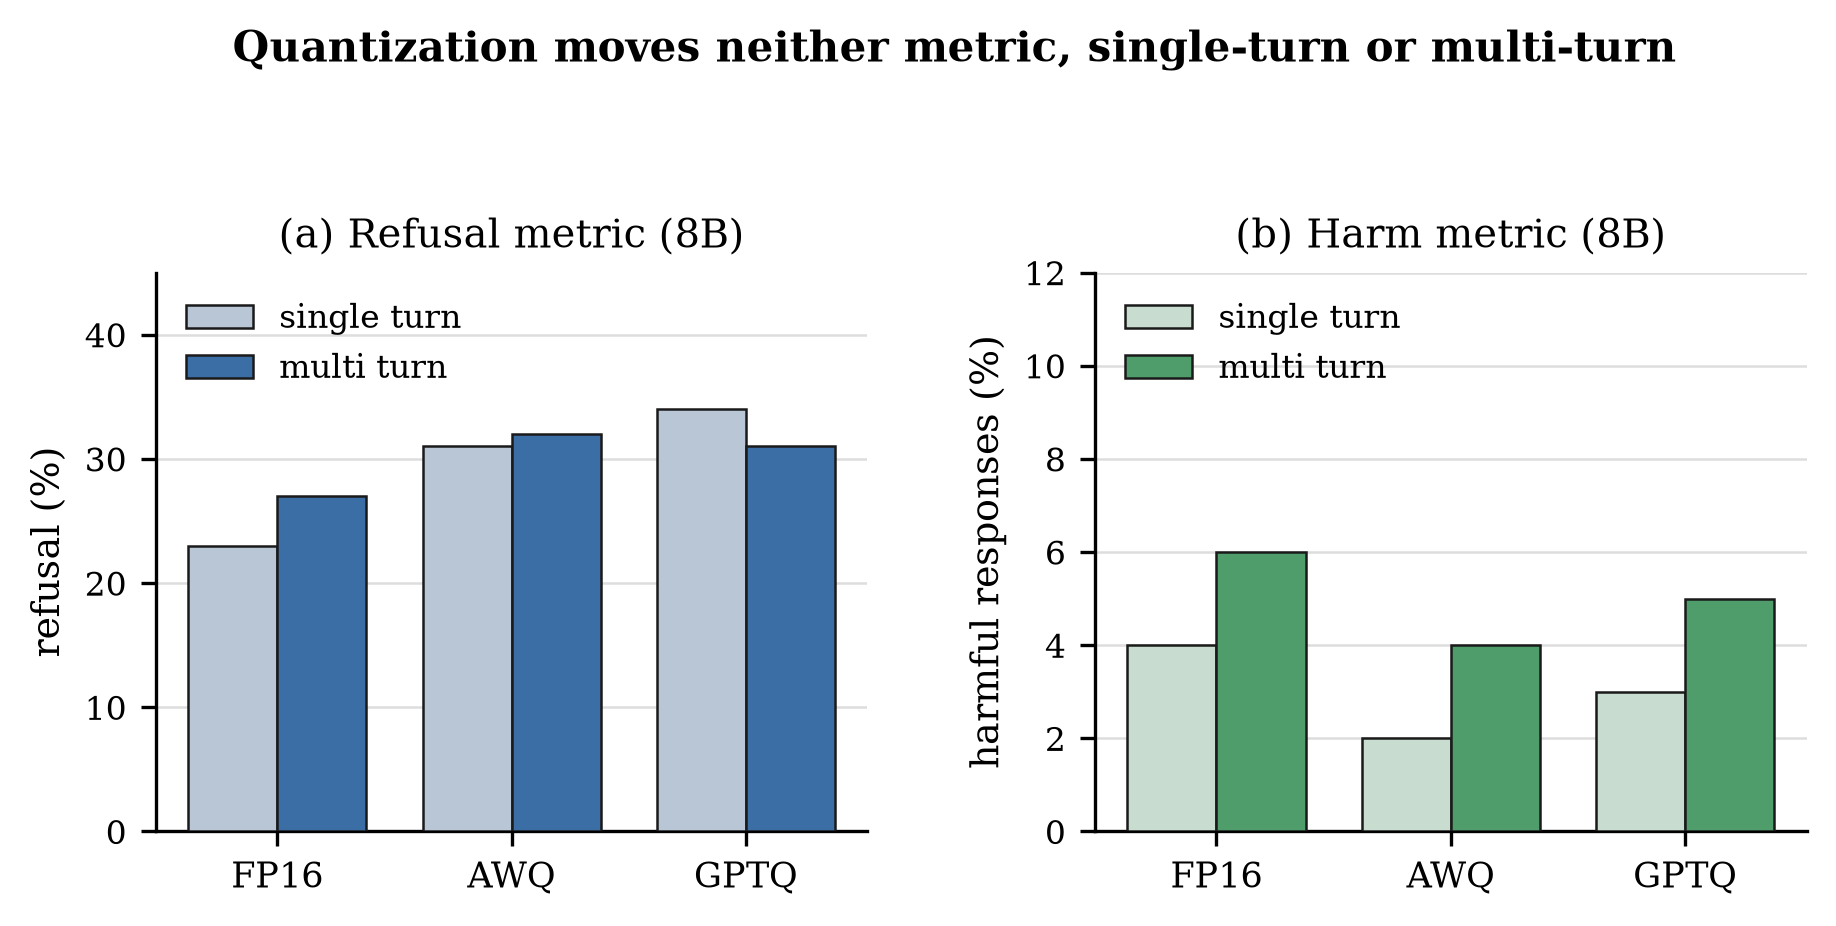
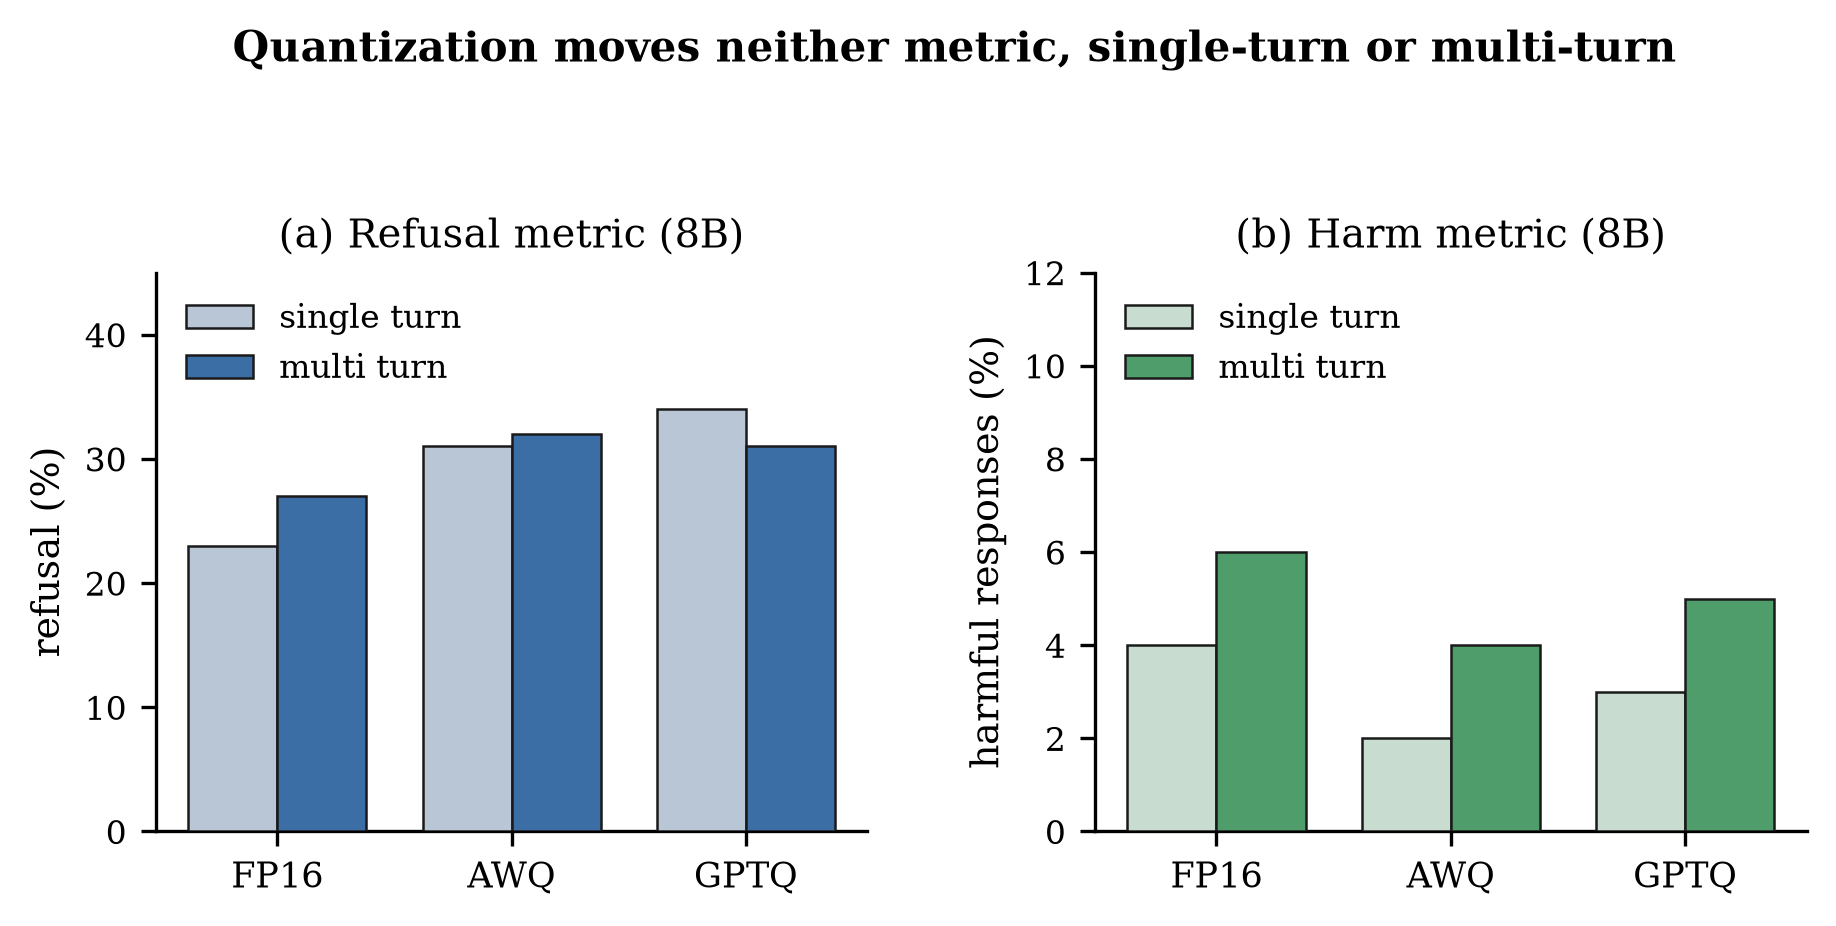
Cleaner figures (no gridlines) and cut redundant cold-vs-ic figure to de-crowd layout

diff --git a/paper/main.tex b/paper/main.tex
@@ -228,10 +228,9 @@ The cold column tells a different story for 8B. Quantization raises single-turn
 refusal: FP16 refuses 23\%, AWQ 31\%, GPTQ 34\%. Both pairwise contrasts against
 FP16 are significant (McNemar $p=0.043$ and $p=0.010$; Table~\ref{tab:sig}), and
 Cochran's $Q$ is significant ($Q=9.7$, $p=0.008$). The same three precisions are
-not separable once the conversation is present. Figure~\ref{fig:coldvsic} shows
-the gap closing: the 8 to 11 point spread at a single turn narrows to 5 points
-in context and loses significance. 3B shows no precision effect at either
-horizon.
+not separable once the conversation is present: the 8 to 11 point spread at a
+single turn narrows to 5 points in context and loses significance
+(Figure~\ref{fig:twometric}a). 3B shows no precision effect at either horizon.
 
 \paragraph{The direction stays coupled.}
 If quantization broke the refusal representation, projection would stop
@@ -342,15 +341,6 @@ Quantization moves neither refusal (a) nor harmful-response rate (b) at either
 horizon.}
 \label{fig:twometric}
 \end{figure*}
-
-\begin{figure}[t]
-\centering
-\includegraphics[width=0.92\columnwidth]{fig2_cold_vs_ic.pdf}
-\caption{Llama-3.1-8B refusal, single turn (cold) versus multi-turn
-(in-context). The single-turn precision gap narrows and loses significance in
-context.}
-\label{fig:coldvsic}
-\end{figure}
 
 \begin{figure}[t]
 \centering

diff --git a/make_hero_figures.py b/make_hero_figures.py
@@ -46,7 +46,6 @@ def bars(ax, labels, vals, errs=None, note=None):
         ax.text(xi, v + top*0.03 + 0.6, f"{v:.0f}", ha="center", va="bottom",
                 fontsize=8.5)
     ax.set_xticks(x); ax.set_xticklabels(labels)
-    ax.grid(axis="y", color="#dddddd", linewidth=0.6, zorder=0)
 
 
 # ---- fig_hero: the two-metric null in one glance ----
@@ -94,7 +93,6 @@ axes[0].set_xticks(x); axes[0].set_xticklabels(prec)
 axes[0].set_ylabel("refusal (%)"); axes[0].set_ylim(0, 45)
 axes[0].set_title("(a) Refusal metric (8B)")
 axes[0].legend(frameon=False, loc="upper left")
-axes[0].grid(axis="y", color="#dddddd", linewidth=0.6, zorder=0)
 # right: harm single->multi for 8B precisions
 hs = [harm("st_8b_fp16"), harm("st_8b_awq"), harm("st_8b_gptq")]
 hm = [harm("mt_8b_fp16"), harm("mt_8b_awq"), harm("mt_8b_gptq")]
@@ -106,7 +104,6 @@ axes[1].set_xticks(x); axes[1].set_xticklabels(prec)
 axes[1].set_ylabel("harmful responses (%)"); axes[1].set_ylim(0, 12)
 axes[1].set_title("(b) Harm metric (8B)")
 axes[1].legend(frameon=False, loc="upper left")
-axes[1].grid(axis="y", color="#dddddd", linewidth=0.6, zorder=0)
 fig.suptitle("Quantization moves neither metric, single-turn or multi-turn",
              y=1.10, fontsize=10, fontweight="bold")
 fig.subplots_adjust(top=0.80, wspace=0.32)

diff --git a/make_figures.py b/make_figures.py
@@ -115,7 +115,6 @@ ax.bar(x - 0.2, [auc(m, q, "cold") for m, q in runs], 0.38, label="single turn",
        color="#b0b0b0", edgecolor=INK, linewidth=0.5)
 ax.bar(x + 0.2, [auc(m, q, "ic") for m, q in runs], 0.38, label="multi-turn",
        color="#4c72b0", edgecolor=INK, linewidth=0.5)
-ax.axhline(0.5, color=INK, lw=0.6, ls=":")
 ax.set_xticks(x)
 ax.set_xticklabels([f"{m}\n{q.upper()}" for m, q in runs], fontsize=6)
 ax.set_ylabel("AUC (proj. predicts refusal)")